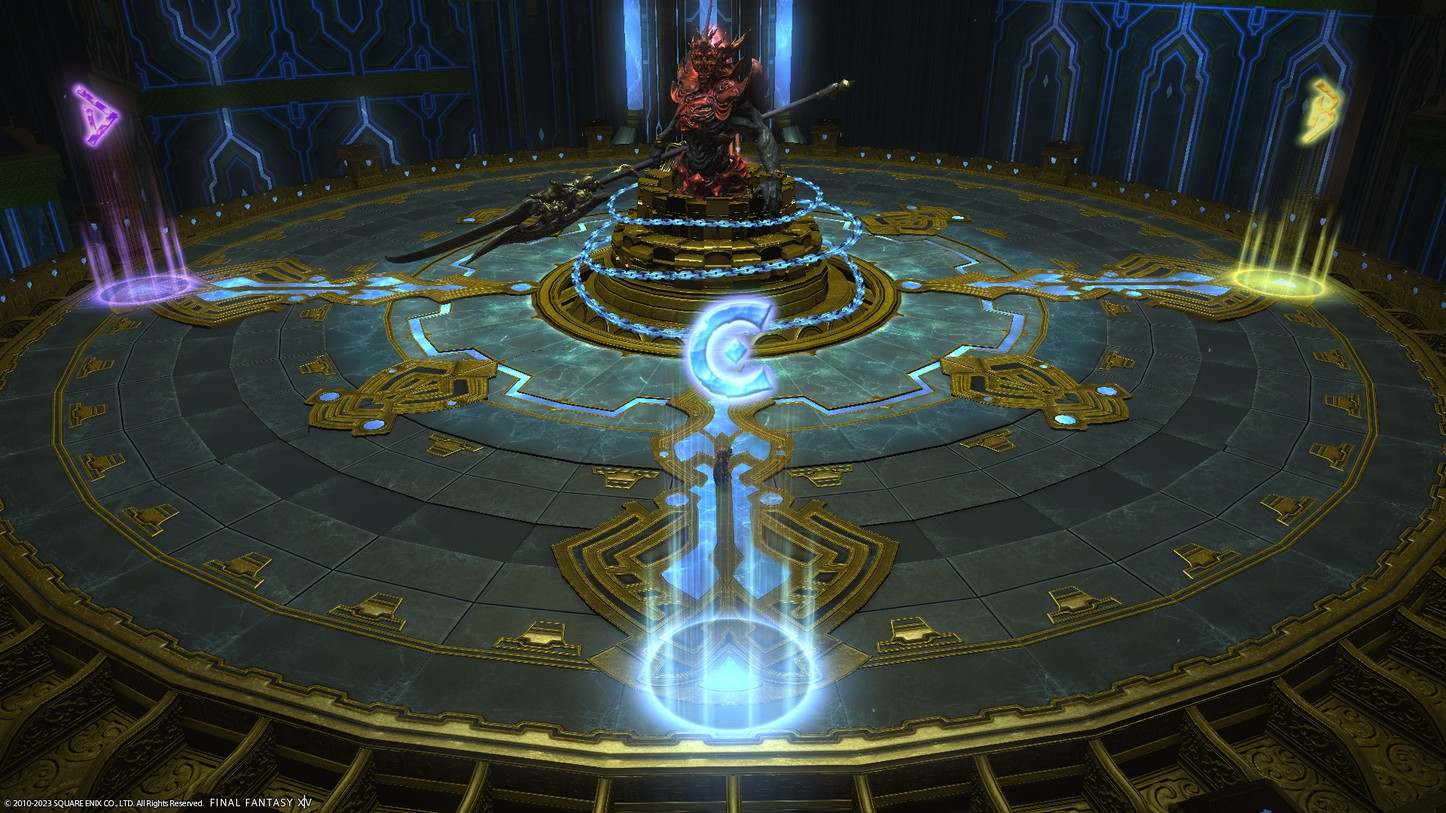
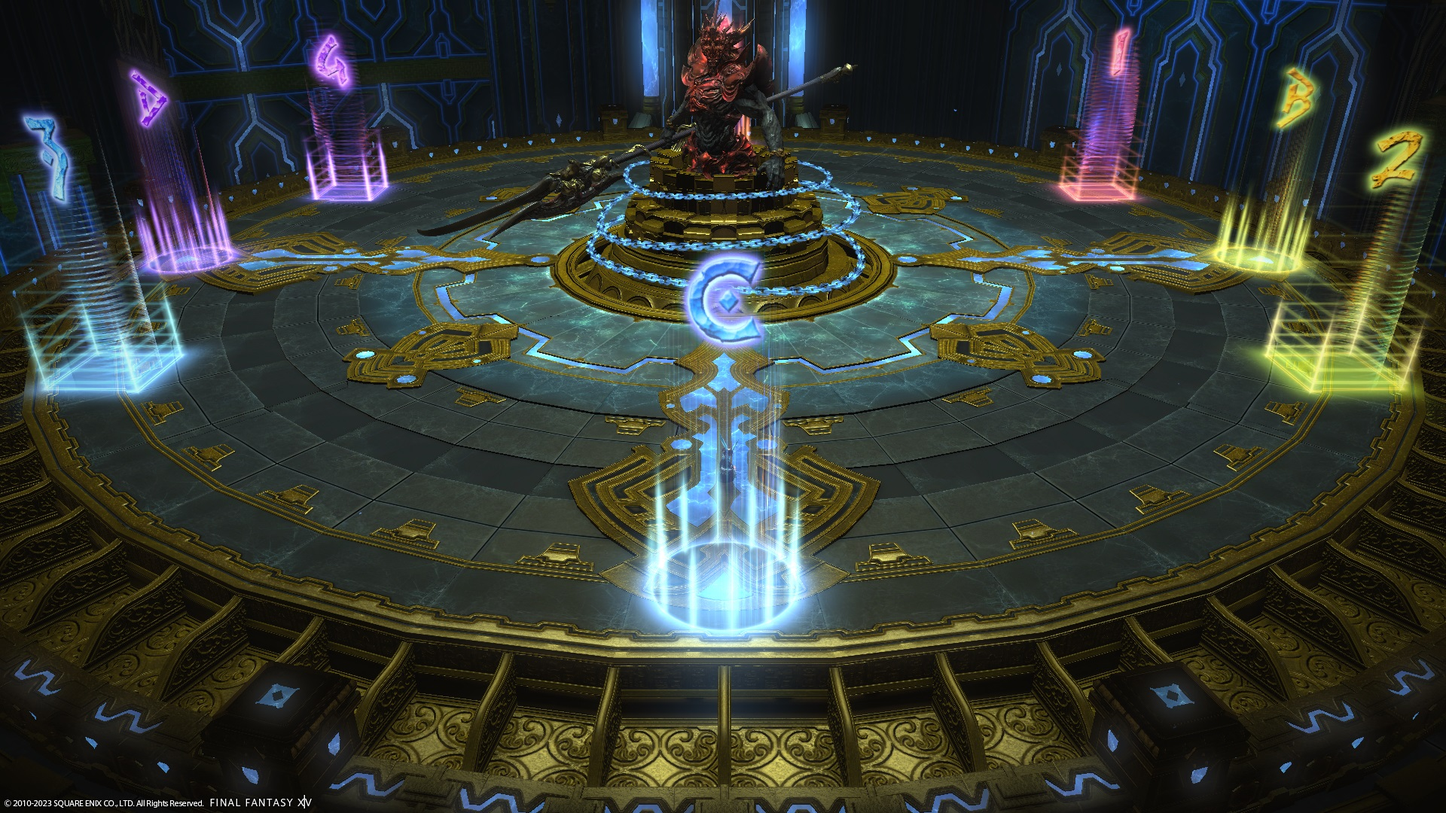
Add Nukemaru's guide to Zurvan EX

diff --git a/3.0_heavensward/extreme_trials/zurvan/README.md b/3.0_heavensward/extreme_trials/zurvan/README.md
@@ -9,6 +9,10 @@ permalink: /3.0_heavensward/extreme_trials/zurvan/
 
 # Containment Bay Z1T9 (Extreme)
 
+An up-to-date reference would be Nukemaru's guide:
+
+{% include youtube.html id="a05iQfpiGoE" %}
+
 ## English
 ```
 {% include_relative macros/zurvan.en.txt %}
@@ -21,14 +25,16 @@ permalink: /3.0_heavensward/extreme_trials/zurvan/
 
 ## Markers
 
-These are just the standard cardinal markers. At the time, the `D` marker did not exist.
+`ABCD` are the standard cardinal markers.
+
+`1234` are *not* at the intercardinals- `AC1234` split the arena into sixths, marking the safe spots for (one of) the Soar patterns.
 
 ![](images/markers.jpg)
 <details markdown=block>
 <summary>XIVLauncher WaymarkPresetPlugin positions</summary>
 
 ```json
-{"Name":"Zurvan EX","MapID":224,"A":{"X":0.0,"Y":0.0,"Z":-18.0,"ID":0,"Active":true},"B":{"X":18.0,"Y":0.0,"Z":0.0,"ID":1,"Active":true},"C":{"X":0.0,"Y":0.0,"Z":18.0,"ID":2,"Active":true},"D":{"X":-18.0,"Y":0.0,"Z":0.0,"ID":3,"Active":true},"One":{"X":0.0,"Y":0.0,"Z":0.0,"ID":4,"Active":false},"Two":{"X":0.0,"Y":0.0,"Z":0.0,"ID":5,"Active":false},"Three":{"X":0.0,"Y":0.0,"Z":0.0,"ID":6,"Active":false},"Four":{"X":0.0,"Y":0.0,"Z":0.0,"ID":7,"Active":false}}
+{"Name":"Zurvan EX","MapID":224,"A":{"X":0.0,"Y":0.0,"Z":-18.0,"ID":0,"Active":true},"B":{"X":18.0,"Y":0.0,"Z":0.0,"ID":1,"Active":true},"C":{"X":0.0,"Y":0.0,"Z":18.0,"ID":2,"Active":true},"D":{"X":-18.0,"Y":0.0,"Z":0.0,"ID":3,"Active":true},"One":{"X":15.588457,"Y":0.0,"Z":-9.0,"ID":4,"Active":true},"Two":{"X":15.588,"Y":0.0,"Z":9.0,"ID":5,"Active":true},"Three":{"X":-15.588,"Y":0.0,"Z":9.0,"ID":6,"Active":true},"Four":{"X":-15.588,"Y":0.0,"Z":-9.0,"ID":7,"Active":true}}
 ```
 
 </details>
